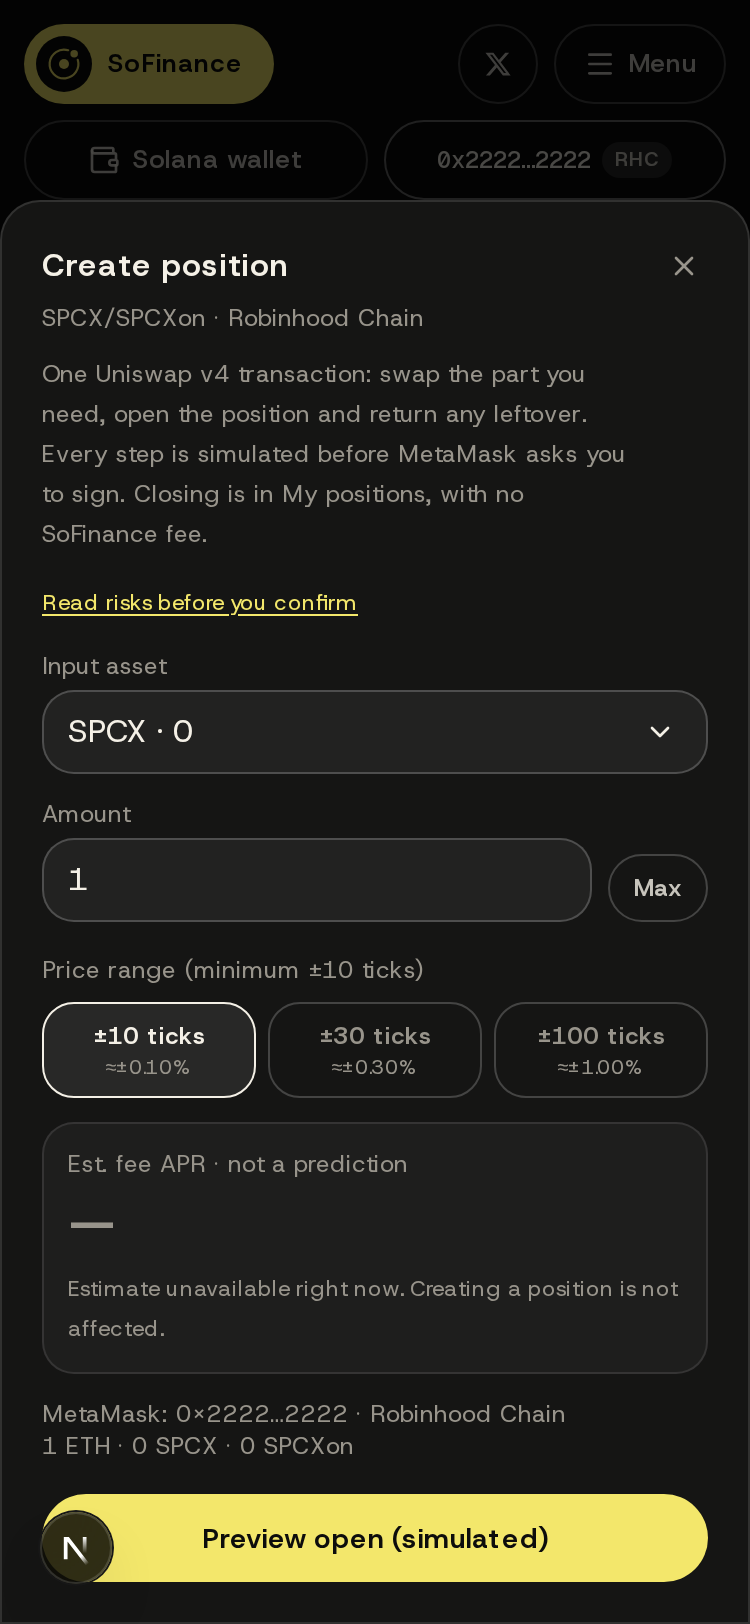
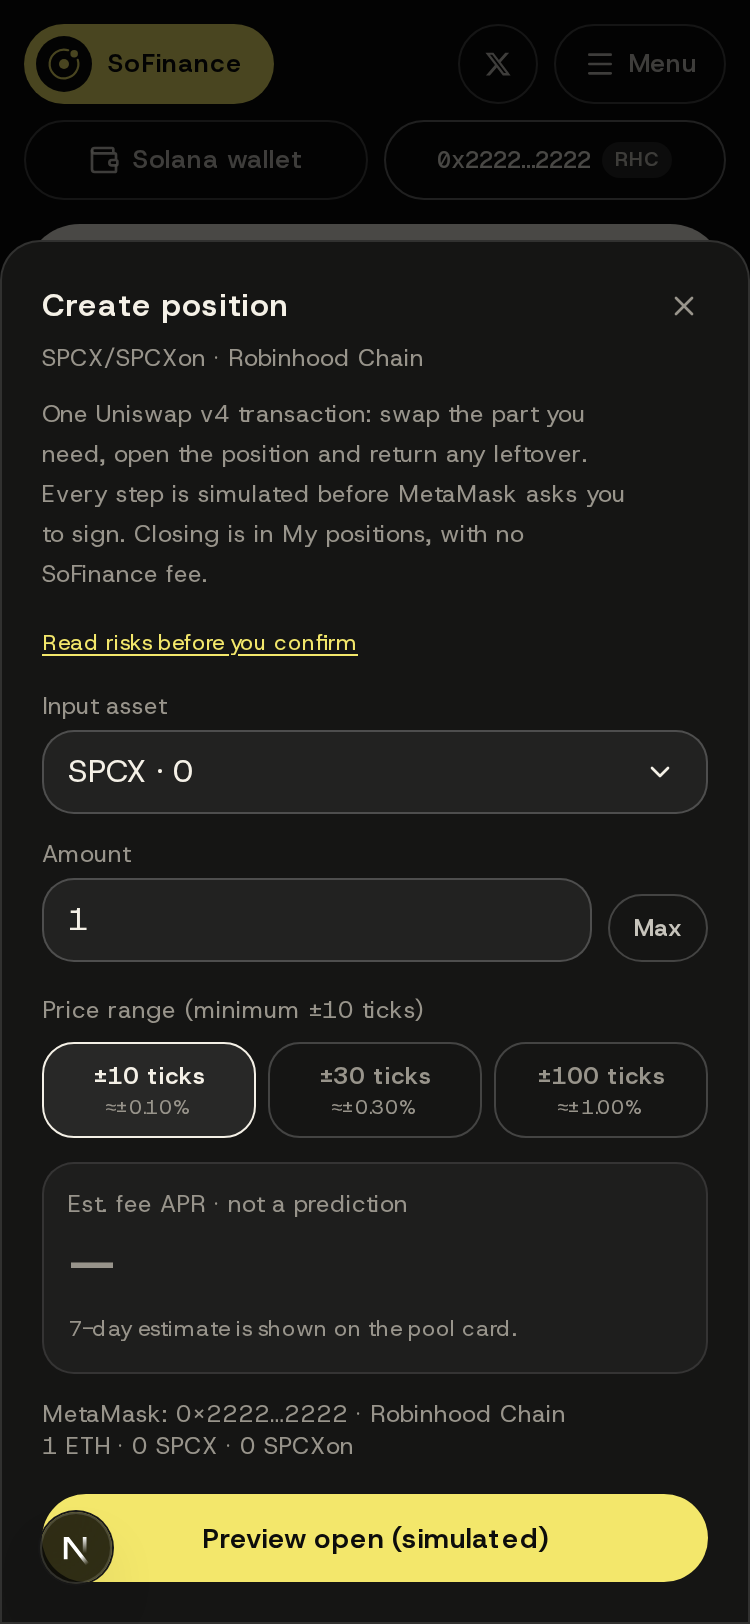
fix: restore Meteora empty-state copy and venue-correct screenshots
Show the original "no range of this pool fits one position" alert when
every preset exceeds the 70-bin cap. Drop the unused Best fallback
("the range that fits…") copy. Point the RHC dialog at the card's
7-day estimate instead of sounding like an outage. Reshoot Meteora
from the production 8k2c payload so the modal no longer displays
Raydium 4bMb APRs, and add a Raydium 375 view scrolled to the button.

diff --git a/src/components/unified-pools/registry-open-modal.test.tsx b/src/components/unified-pools/registry-open-modal.test.tsx
@@ -14,7 +14,7 @@ const mocks = vi.hoisted(() => ({ runSteps: vi.fn(async () => null), tx: {} as R
 vi.mock("../wallet-connection", () => ({ useWalletConnection: () => ({ address: mocks.connected ? WALLET : undefined, connected: mocks.connected, connect: vi.fn(), signTransaction: vi.fn(), signAndSendTransaction: vi.fn() }) }));
 vi.mock("../transactions/use-tx-pipeline", () => ({ useTxPipeline: () => ({ status: "idle", locked: false, closeLocked: false, runSteps: mocks.runSteps, retry: vi.fn(), interrupted: null, dismissInterrupted: vi.fn(), ...mocks.tx }) }));
 
-import { APR_UNAVAILABLE, openInputs, presetOptions, RegistryOpenModal, NETWORK_FEE_COPY, SOL_REFUSED_COPY } from "./registry-open-modal";
+import { APR_UNAVAILABLE, NO_RANGE_FITS_COPY, openInputs, presetOptions, RegistryOpenModal, NETWORK_FEE_COPY, SOL_REFUSED_COPY } from "./registry-open-modal";
 
 const descriptor = dexDescriptors.descriptorFor("meteora-dlmm")!;
 const pool = { key: "solana:met1", poolAddress: "met1", chain: "solana", protocol: "meteora-dlmm", pairLabel: "TSLAx/TSLA", symbolA: "TSLAx", symbolB: "TSLA",
@@ -84,6 +84,7 @@ describe("RegistryOpenModal", () => {
     await render();
     expect(container.querySelector<HTMLButtonElement>("[data-testid=preset-wide]")!.disabled).toBe(true);
     expect(container.textContent).toContain("Not available to open yet");
+    expect(container.textContent).not.toContain(NO_RANGE_FITS_COPY);
     const select = container.querySelector<HTMLSelectElement>("#registry-open-token")!;
     await act(async () => { select.value = USDC_MINT; select.dispatchEvent(new Event("change", { bubbles: true })); });
     await type("1");
@@ -103,6 +104,23 @@ describe("RegistryOpenModal", () => {
     const [first] = mocks.runSteps.mock.calls[0] as unknown as [{ request: unknown; context: unknown }];
     expect(first.request).toEqual({ poolId: "met1", range: { kind: "preset", presetId: "standard" }, input: { token: USDC_MINT, amountRaw: "1000000" }, slippageBps: 50 });
     expect(first.context).toEqual({ step: 1, priorSignatures: [] });
+  });
+
+  it("when every preset exceeds the per-position cap, says no range of this pool fits one position", async () => {
+    await render({
+      ranges: {
+        ...ranges,
+        presets: [
+          { id: "micro", lowerUnit: -80, upperUnit: 79, units: 160, priceLower: 0.8, priceUpper: 1.2 },
+          { id: "tight", lowerUnit: -90, upperUnit: 89, units: 180, priceLower: 0.7, priceUpper: 1.3 },
+          { id: "standard", lowerUnit: -100, upperUnit: 99, units: 200, priceLower: 0.6, priceUpper: 1.4 },
+          { id: "wide", lowerUnit: -150, upperUnit: 149, units: 300, priceLower: 0.4, priceUpper: 1.6 },
+        ],
+      },
+    });
+    expect(container.textContent).toContain(NO_RANGE_FITS_COPY);
+    expect([...container.querySelectorAll("[role=alert]")].some((node) => node.textContent === NO_RANGE_FITS_COPY)).toBe(true);
+    expect(openButton().disabled).toBe(true);
   });
 
   it("APR feed down with the server's ranges present: every APR reads \"APR unavailable\" and the position can still be opened", async () => {

diff --git a/src/components/unified-pools/registry-open-modal.tsx b/src/components/unified-pools/registry-open-modal.tsx
@@ -37,6 +37,7 @@ export const SOL_RESERVE_COPY = "Keep some SOL beyond the rent. Your wallet may 
 export const SOL_REFUSED_COPY = "SOL can't be used to open a position. Use one of the listed tokens.";
 export const RANGE_TOO_WIDE_COPY = (units: number, max: number, unit: string) =>
   `Not available to open yet: this range spans ${units} ${unit}s, and one position holds at most ${max}.`;
+export const NO_RANGE_FITS_COPY = "No range of this pool fits one position, so it is not available to open yet.";
 
 /** Exact text of a preset's APR when the volume / APR feed has no estimate for it (never 0% or a guess). */
 export const APR_UNAVAILABLE = "APR unavailable";
@@ -270,6 +271,9 @@ export function RegistryOpenModal({ pool, descriptor, ranges, apr = null, onClos
         showCustom: false,
         unavailable,
       }}
+      rangeHint={!rangesError && payload && presets.length > 0 && !presets.some((item) => item.available)
+        ? <p role="alert" className="mt-2 text-sm text-cream/80">{NO_RANGE_FITS_COPY}</p>
+        : null}
       notes={<>
         {rangesError ? <p role="alert" data-testid="registry-open-ranges-error" className="mt-4 text-sm text-cream/80">{rangesError}</p> : null}
         {!rangesError && !payload ? <p role="status" className="mt-4 flex items-center gap-2 text-sm text-cream/80"><LoaderCircle aria-hidden="true" className="size-4 animate-spin" />Loading this pool&apos;s ranges…</p> : null}

diff --git a/src/components/range-apr/range-preset-picker.tsx b/src/components/range-apr/range-preset-picker.tsx
@@ -78,9 +78,7 @@ function Headline({ apr, sized, preview, selection, best, others }: {
       )}
       {best && (
         <p className="mt-1 text-[11px] leading-5 text-smoke" data-testid="best-explainer">
-          {best.fallback
-            ? `${BEST_LABEL} for this pool is ${best.resolvedLabel}: the range that fits${sized ? ` a ~${formatDepositUsd(sized.referenceCapitalUsd)} deposit` : " this amount"}. Not a prediction.`
-            : `${BEST_LABEL} for this pool is ${best.resolvedLabel}: the highest estimated fee APR of the candidate ranges over the last 7 days${sized ? ` for a ~${formatDepositUsd(sized.referenceCapitalUsd)} deposit` : ""}. Not a prediction.`}
+          {`${BEST_LABEL} for this pool is ${best.resolvedLabel}: the highest estimated fee APR of the candidate ranges over the last 7 days${sized ? ` for a ~${formatDepositUsd(sized.referenceCapitalUsd)} deposit` : ""}. Not a prediction.`}
         </p>
       )}
       {others.length > 0 && (

diff --git a/src/components/range-apr/range-preset-picker.test.tsx b/src/components/range-apr/range-preset-picker.test.tsx
@@ -130,6 +130,7 @@ describe("RangePresetPicker", () => {
   it("tells the truth about Best (automatic highest estimated APR, not a model) in the tooltip and the note", () => {
     render(readyWith({ micro: 1, tight: 38, standard: 2, wide: 3 }), { selected: "tight" });
     expect(container.textContent).toMatch(/Best for this pool is Tight: the highest estimated fee APR of the candidate ranges over the last 7 days for a ~\$1,000 deposit\. Not a prediction/);
+    expect(container.textContent).not.toMatch(/the range that fits/);
     const info = container.querySelector<HTMLButtonElement>("button[aria-label='About Best']")!;
     vi.spyOn(info, "getBoundingClientRect").mockReturnValue({ left: 10, right: 20, top: 10, bottom: 20, width: 10, height: 10, x: 10, y: 10, toJSON: () => ({}) });
     act(() => { info.dispatchEvent(new MouseEvent("mouseover", { bubbles: true })); });

diff --git a/src/components/open-position/open-position-form.tsx b/src/components/open-position/open-position-form.tsx
@@ -268,7 +268,7 @@ export function RhcRangeButtons({
       <div className="mt-3 rounded-2xl border border-white/10 bg-white/[0.04] p-3 text-xs" aria-live="polite">
         <p className="text-smoke">Est. fee APR · not a prediction</p>
         <p className="mt-2 flex h-7 items-center text-[1.75rem] font-medium leading-none tracking-[-0.035em] text-smoke" data-testid="range-apr-headline">—</p>
-        <p className="mt-2 text-[11px] leading-5 text-smoke">Estimate unavailable right now. Creating a position is not affected.</p>
+        <p className="mt-2 text-[11px] leading-5 text-smoke">7-day estimate is shown on the pool card.</p>
       </div>
     </>
   );

diff --git a/src/components/rhc-univ4-open-panel.test.tsx b/src/components/rhc-univ4-open-panel.test.tsx
@@ -107,6 +107,8 @@ describe("RhcUniv4OpenPanel", () => {
     // The dialog shows no 24h APR (the 7-day estimate on the card is the only APR).
     expect(container.querySelector("[data-testid=estimated-apr]")).toBeNull();
     expect(text()).not.toContain("APR · 24h");
+    expect(text()).toContain("7-day estimate is shown on the pool card.");
+    expect(text()).not.toContain("Estimate unavailable right now");
     const button = (label: string) => [...container.querySelectorAll("button")].find(b => b.textContent === label)!;
     expect(button("Connect wallet")).toBeTruthy();
     expect(button("Preview open (simulated)")).toBeUndefined();

diff --git a/src/lib/range-apr/preset-list.ts b/src/lib/range-apr/preset-list.ts
@@ -55,8 +55,6 @@ export type BestButton = {
   /** Short name of the range it resolved to, e.g. "Tight". */
   resolvedLabel: string;
   estimate: RangeAprEstimate;
-  /** True when the typed deposit fits no candidate and Best fell back to the widest available range. */
-  fallback?: boolean;
 };
 
 export type PresetButton = { id: OpenRangeUiPreset["id"]; label: string; estimate: RangeAprEstimate | null };

diff --git a/screenshots/unified-open-position/README.md b/screenshots/unified-open-position/README.md
@@ -1,15 +1,40 @@
 # Unified open-position screenshots
 
-Local `next dev` + hermetic e2e fixtures (`e2e/support/fixtures/rwa-pairs.json`,
-`protocol-pools-rhc.json`, `pool-range-apr.json`), mocked the same way as the
-e2e-hermetic lane (Playwright route fulfillment). The TSLAx/TSLA Raydium card
-uses the live prod `/api/pool-range-apr` payload for
-`4bMbJzxWyiokwyQC4ndST5sJv6Qnb4viyACzhyFUgRbd` (snapshot 2026-11-10) so the
-4.35% / Standard figure is the post-fix number.
+Local `next dev` + hermetic Playwright route fulfillment (same pair-list
+fixtures as the e2e-hermetic lane: `e2e/support/fixtures/rwa-pairs.json`,
+`protocol-pools-rhc.json`). APR figures in the Raydium and Meteora shots
+are not taken from those pair-list fixtures.
 
-All three Create-position modals were captured with a connected mocked wallet
-(Solana Wallet Standard “E2E Wallet” for Raydium and Meteora; injected
-MetaMask on Robinhood Chain 4663 for RHC). Terms acceptance was pre-seeded so
-the form — not a connect-only prompt — is what you see.
+All three Create-position modals were captured with a connected mocked
+wallet (Solana Wallet Standard “E2E Wallet” for Raydium and Meteora;
+injected MetaMask on Robinhood Chain 4663 for RHC). Terms acceptance was
+pre-seeded so the form — not a connect-only prompt — is what you see.
 
 Captured 10 Nov 2026, Asia/Taipei.
+
+## Data source per shot
+
+- `raydium-tslax-tsla-card-1280.png`, `raydium-tslax-tsla-card-375.png`,
+  `raydium-open-modal-1280.png`, `raydium-open-modal-375.png`,
+  `raydium-open-modal-button-375.png`: live production
+  `GET https://sofinancelab.xyz/api/pool-range-apr?poolId=4bMbJzxWyiokwyQC4ndST5sJv6Qnb4viyACzhyFUgRbd`
+  (Raydium TSLAx/TSLA). Snapshot taken 10 Nov 2026. After the shared
+  $1,000 preview reprice and fee cap: Best = Standard ~4.3% (the card
+  prints 4.35%); other ranges Micro ~4.2%, Tight ~3.9%, Wide ~1.9%.
+  `raydium-open-modal-button-375.png` is the 375 view scrolled to the
+  Create position button.
+
+- `meteora-open-modal-1280.png`, `meteora-open-modal-375.png`: live
+  production
+  `GET https://sofinancelab.xyz/api/pool-range-apr?poolId=8k2c9Kiavx5pbWc2dmzhL7vFp11sLgMcKFfSueq8haAh`
+  (Meteora TSLAx/TSLA, `protocol: meteora-dlmm`; read-only). Snapshot
+  taken 10 Nov 2026. After the $1,000 preview reprice and fee cap: Best
+  resolves to Tight ~44%; the dialog defaults to Standard, so the
+  headline is ~17%; other ranges Tight ~44%, Micro ~41%, Wide — (this
+  range spans 200 bins; one position holds at most 70). Scrolled so the
+  costs box and the Create position button are visible.
+
+- `rhc-open-modal-1280.png`, `rhc-open-modal-375.png`: the dialog does
+  not call `/api/pool-range-apr`. The APR panel shows “—” and “7-day
+  estimate is shown on the pool card.” Pool chrome comes from
+  `e2e/support/fixtures/protocol-pools-rhc.json`.
